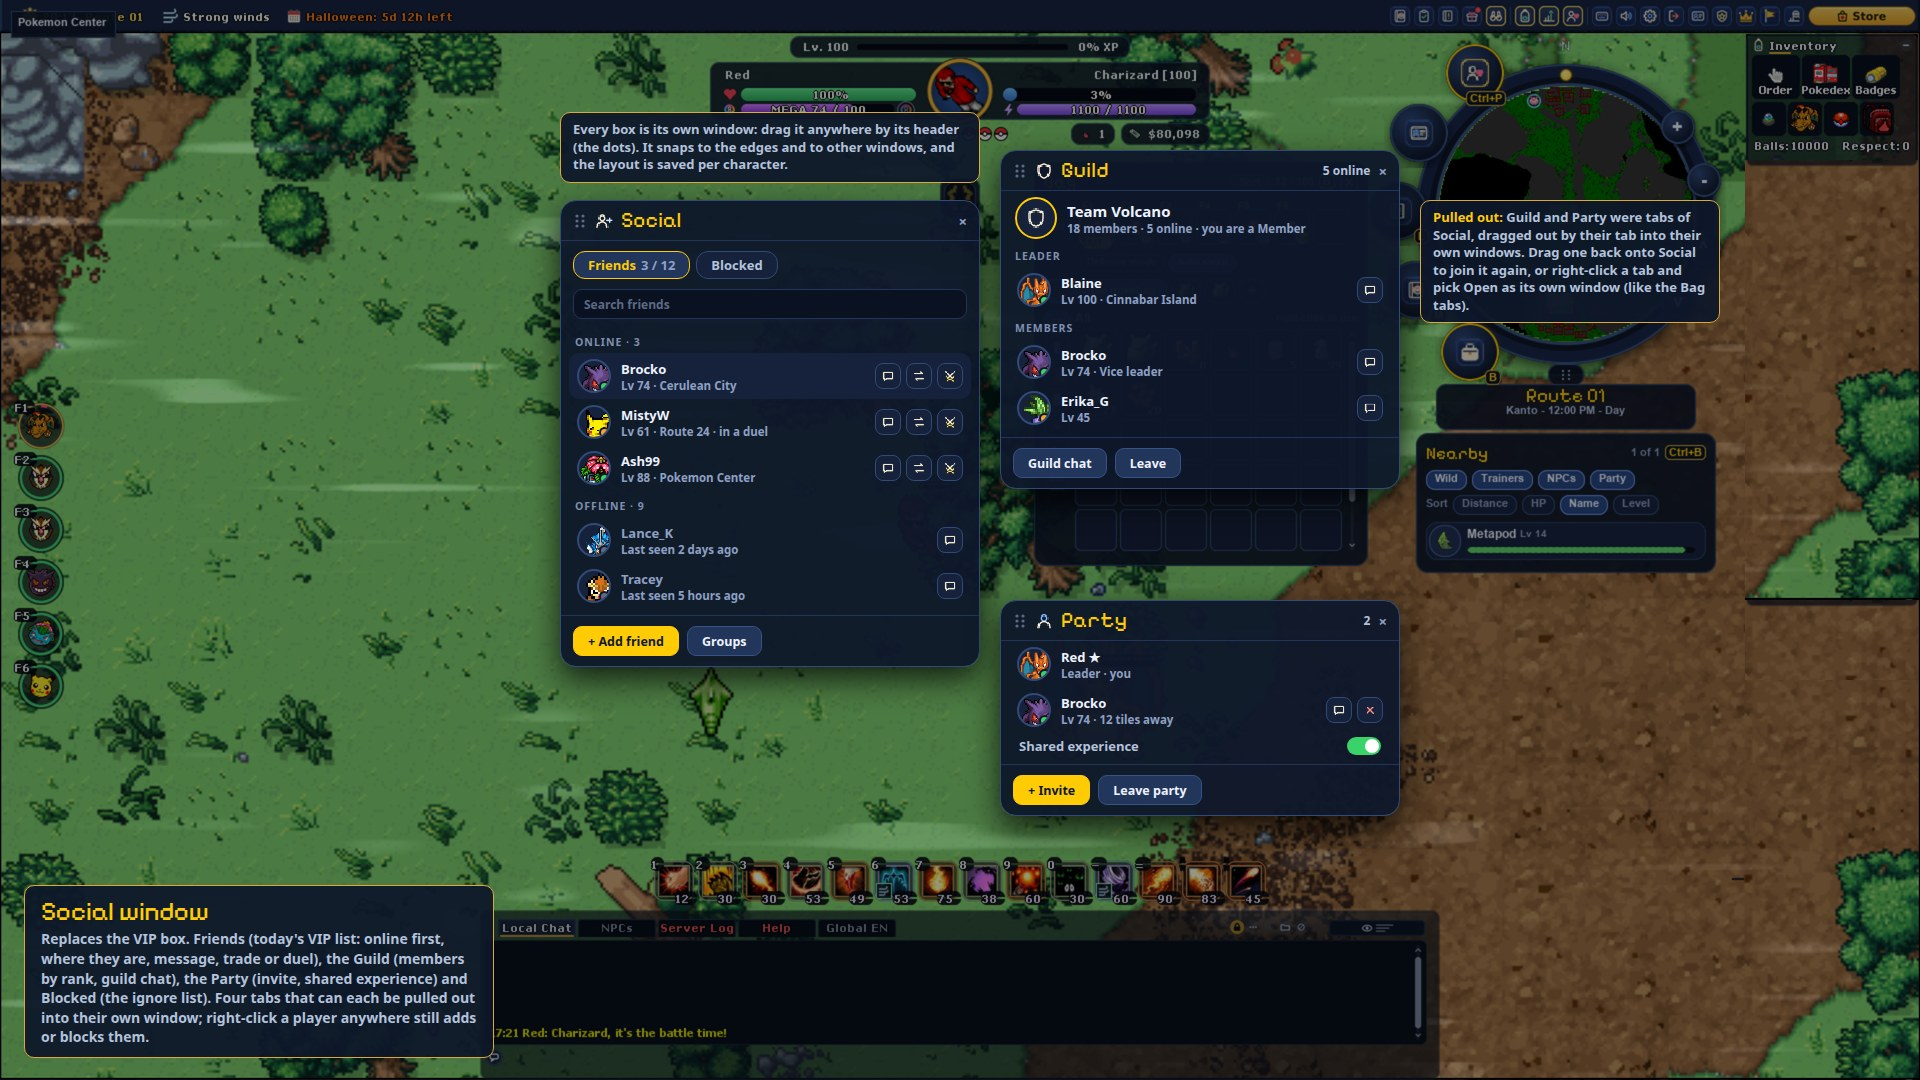
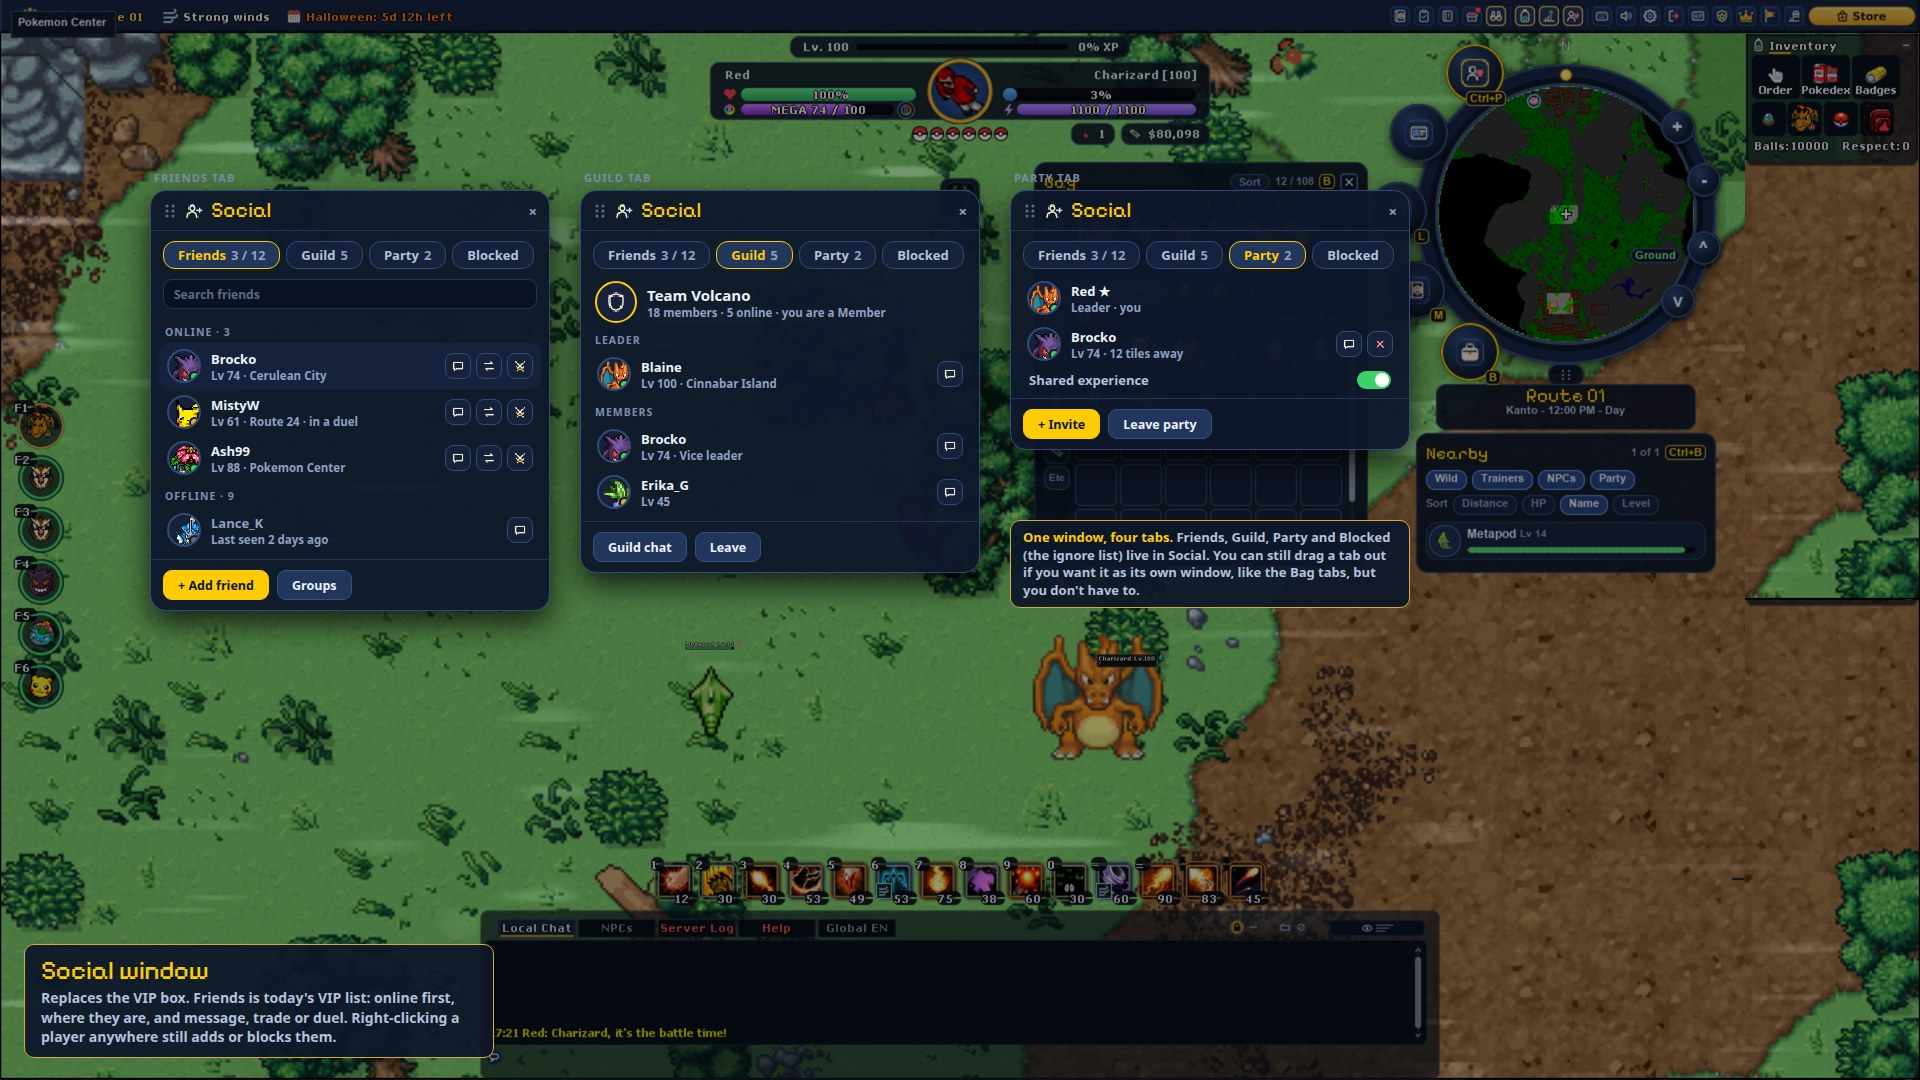
Side panel concept: Social as one window with tabs; the Skills window splits into the XP bar (Trainer Spirit, boost chip, hover), the ball row and a Skills box on the Trainer card

Changed region(s): [[0.0625, 0.0917, 0.9062, 0.7944], [0.0, 0.7944, 0.2812, 0.9778]]

diff --git a/docs/concepts/side-panel/README.md b/docs/concepts/side-panel/README.md
@@ -263,13 +263,14 @@ and the full map. The new map shows the time on its frame, has floor arrows and 
 mouse wheel; M still opens the full map. That leaves the top bar with status on the left and the
 bell, the gear and the Store on the right.
 
-**Tracking, Social and Stats (mock-ups, waiting for a yes).**
+**Tracking, Social and the Skills window (mock-ups, waiting for a yes).**
 
 | | |
 | --- | --- |
 | Tracking card | ![Tracking card](tracking-card.jpg) |
 | Social window | ![Social window](social-window.jpg) |
-| Trainer card, Stats tab | ![Stats tab](stats-tab.jpg) |
+| Experience on the HUD | ![Experience on the HUD](hud-xp.jpg) |
+| Trainer card with Skills | ![Trainer card with Skills](trainercard-skills.jpg) |
 
 - **Every box is its own window.** Drag it anywhere by its header (the dots); it snaps to the screen
   edges and to other windows, and the layout is saved per character. A tab can be dragged out into
@@ -281,19 +282,27 @@ bell, the gear and the Store on the right.
     or the quest.
   - It grows with its lines, then scrolls. Folded, it's a chip under the map's name; a green dot and
     a count show something is ready to claim.
-- **Social window** (replaces the VIP box).
+- **Social window** (replaces the VIP box): one window with Friends, Guild, Party and Blocked tabs.
   - Friends: today's VIP list, online first, with where they are and message, trade and duel.
   - Guild: members by rank, guild chat, leave. Party: invite, shared experience, leave. Blocked: the
     ignore list.
+  - A tab can still be dragged out as its own window, but doesn't have to be.
   - Right-clicking a player anywhere still adds or blocks them.
-- **Stats tab** on the Trainer card (P), replacing the Skills window in Pokegear.
-  - Trainer: level, experience, XP gain rate, hit points, energy, speed, regeneration, offline
-    training. Balls and respect, with the badges. Battles: duels and NPC battles won and lost. Skills:
-    Catching, Fishing and Headbutting with their progress.
-  - Each group can be dragged out as its own small window.
-  - A switch shows Battles and Skills to other trainers; experience is never shown.
+- **The Skills window goes away in Pokegear.** Its lines are split up:
+  - **Next to the XP bar:** Trainer Spirit (its hours and a bar) on the left, and a boost chip with the
+    total rate on the right while any XP boost runs.
+  - **Hovering your XP:** level, experience, what's left to the next level, XP gained this hour, the
+    XP gain rate and every boost with its time left (Trainer Spirit, XP Boost, voucher, low level
+    bonus, Lucky Egg, events, the Ace Trainer perk).
+  - **The ball row** under the HUD shows how many balls you carry, out of 6 (Free Ball Slots is the
+    carrying capacity, and balls and eggs are the only items with weight).
+  - **The Trainer card's Overview** gets a Skills box next to Trophy Pokemon: Catching, Fishing and
+    Headbutting with their level and progress. Trainer level, Duels and Respect are already in its
+    Trainer Information; NPC battles won and lost join the Duels line.
+  - Not shown in Pokegear: Hit Points and Energy as numbers (the HUD has their bars), Offline
+    Training and Regeneration.
 - Classic keeps the tracker window, the VIP box and the Skills window.
 
 ## To decide
 
-- Tracking, Social and Stats: the mock-ups above.
+- Tracking, Social and the Skills window split: the mock-ups above.
